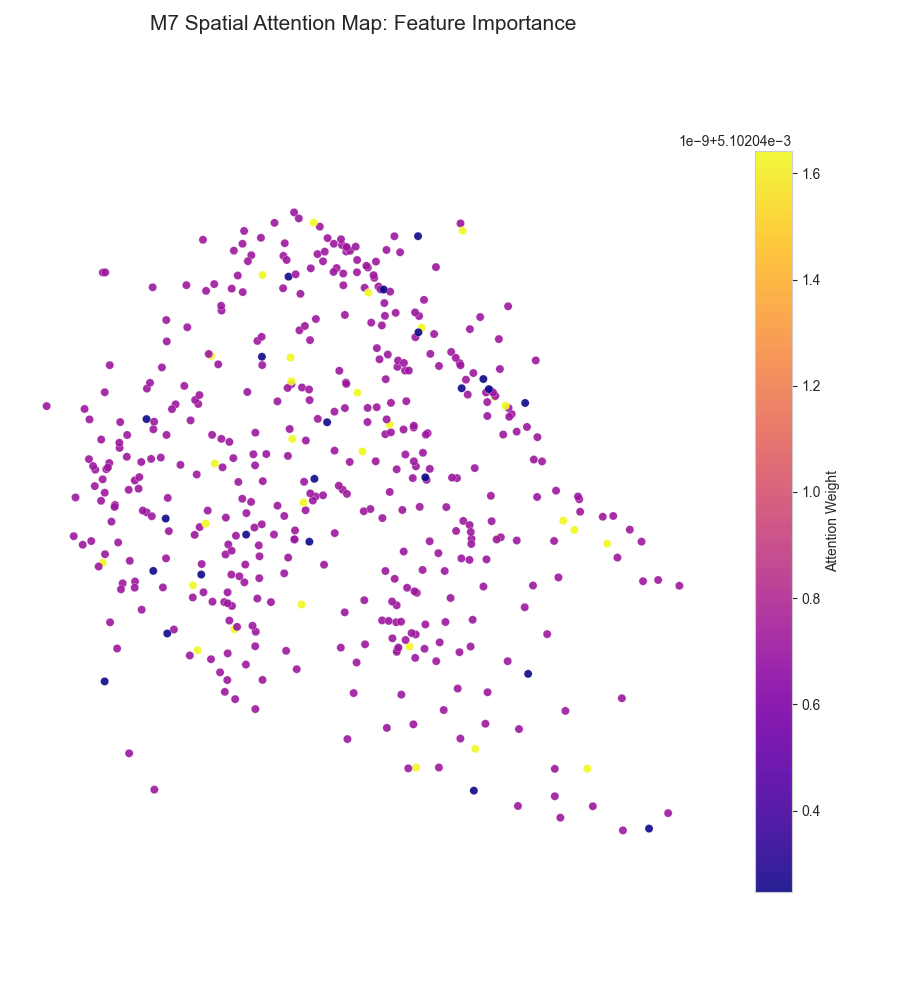
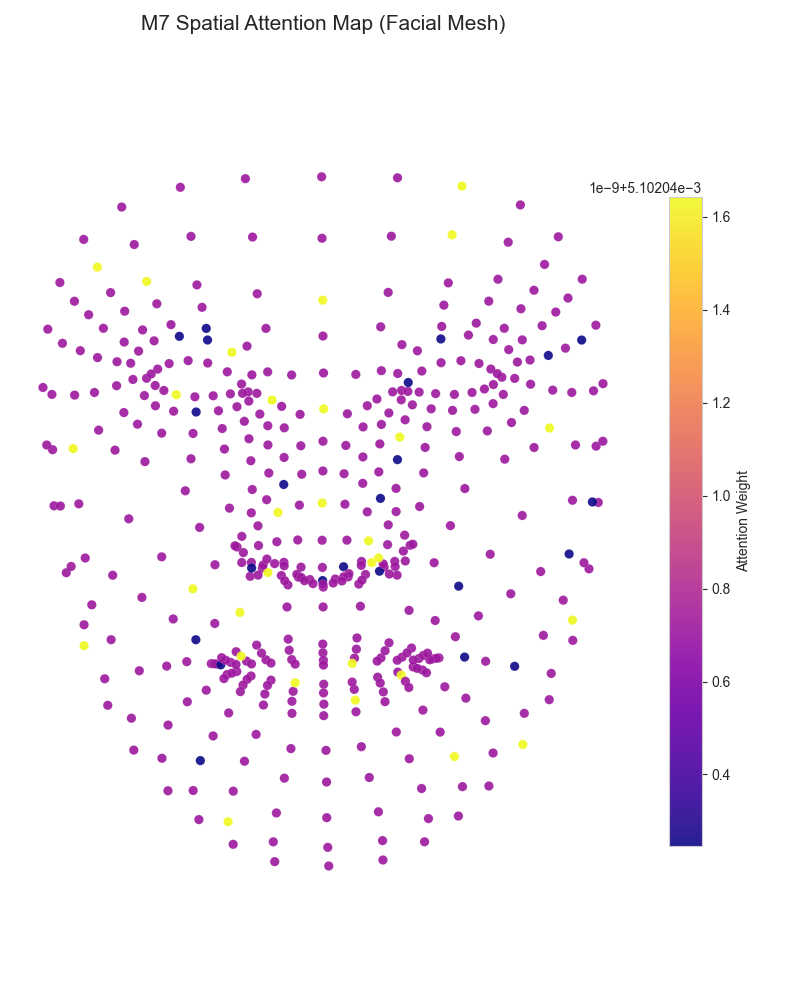
corrected spatial image code

diff --git a/CodeDocs/phase7_generate_plots.py b/CodeDocs/phase7_generate_plots.py
@@ -106,81 +106,61 @@ def plot_attention_distribution():
     out_path = os.path.join(C.RESULTS_DIR, "m7_attention_distribution.png")
     plt.tight_layout()
     plt.savefig(out_path)
-    print(f"Attention distribution plot saved to {out_path}")
+    print(f"Attention distribution saved to {out_path}")
 
 
 def plot_spatial_attention():
     """
-    Map M7 attention weights onto the 2D facial landmarks to create a
-    spatial heatmap of where the model "looks".
+    Map M7 attention weights onto the Procrustes-aligned 3D facial landmarks
+    to create a recognizable spatial map of where the model "looks".
     """
-    # ------------------------------------------------------------------
-    # 1. Load required data
-    # ------------------------------------------------------------------
+    # 1. Load Data
     attn_path = os.path.join(C.CHECKPOINT_DIR, "m7_transformer_heatmaps.npy")
-    land_path = os.path.join(C.CACHE_DIR, "norm_2d.npy")
-
+    # Using aligned_3d because it preserves the actual face structure perfectly
+    land_path = os.path.join(C.CACHE_DIR, "aligned_3d.npy")
+    
     if not os.path.exists(attn_path) or not os.path.exists(land_path):
-        print("Missing data for spatial mapping (attention or landmarks).")
+        print("Missing data for spatial mapping (attention or aligned landmarks).")
         return
 
-    attn_data = np.load(attn_path)                       # shape: (N, 468) or (N, 468, 196)
-    land_raw = np.load(land_path, allow_pickle=True)
+    attn_data = np.load(attn_path)
+    land_dict = np.load(land_path, allow_pickle=True).item()
 
-    # ------------------------------------------------------------------
-    # 2. Extract first sample's landmarks
-    # ------------------------------------------------------------------
-    if isinstance(land_raw.item(), dict):
-        first_key = list(land_raw.item().keys())[0] # Added [0] to get the actual key string
-        sample_land = land_raw.item()[first_key]
-    else:
-        sample_land = land_raw[0]
-    
-    # Reshape landmarks to 2 columns (X, Y). 
-    # If it was 702 elements, it will become (351, 2).
-    sample_land = np.array(sample_land).reshape(-1, 2)
-
-    # ------------------------------------------------------------------
-    # 3. Extract first sample's attention and reduce to per-landmark values
-    # ------------------------------------------------------------------
-    # If attn_data is the whole file, take the first sample [0]
-    sample_attn = attn_data[0] if attn_data.ndim > 1 else attn_data
-
-    # If attention is 2D (landmarks × patches), collapse over patches
+    # 2. Extract first sample
+    # Attention: (N, 468) or (N, 468, patches)
+    sample_attn = attn_data[0]
     if sample_attn.ndim == 2:
-        sample_attn = sample_attn.mean(axis=1)
-        print("Note: Aggregated cross‑attention over patches using mean.")
+        sample_attn = sample_attn.mean(axis=1) # Mean over patches
     
-    sample_attn = sample_attn.flatten()
-
-    # ------------------------------------------------------------------
-    # MATCHING LOGIC: Ensure sample_attn and sample_land have same length
-    # ------------------------------------------------------------------
+    # Landmarks: First available in the dict, reshaped to (468, 3)
+    first_fn = list(land_dict.keys())[0]
+    sample_land = land_dict[first_fn].reshape(-1, 3)
+    
+    # Align lengths
     min_len = min(len(sample_attn), len(sample_land))
     sample_attn = sample_attn[:min_len]
     sample_land = sample_land[:min_len]
-    print(f"Aligning data: using first {min_len} points for plotting.")
 
-    # ------------------------------------------------------------------
-    # 4. Create 2D scatter plot with attention as colour
-    # ------------------------------------------------------------------
-    plt.figure(figsize=(9, 10))
-    plt.gca().set_facecolor('#1c1c1c')
-
+    # 3. Visualization
+    plt.figure(figsize=(8, 10))
+    plt.gca().set_facecolor('#1c1c1c') # Dark theme
+    
+    # Plot spatial map (X, Y)
+    # Note: For procrustes-aligned landmarks, we might not need to flip Y, 
+    # but let's check orientation. Usually (x, -y) is safe for image-originated coords.
     scatter = plt.scatter(sample_land[:, 0], -sample_land[:, 1],
-                          c=sample_attn, cmap='plasma', s=35, alpha=0.9,
-                          edgecolors='white', linewidth=0.2)
-
-    plt.colorbar(scatter, label='Attention Weight', shrink=0.8)
-    plt.title("M7 Spatial Attention Map: Feature Importance", fontsize=15, pad=20)
+                         c=sample_attn, cmap='plasma', s=45, alpha=0.9,
+                         edgecolors='white', linewidth=0.1)
+    
+    plt.colorbar(scatter, label='Attention Weight', shrink=0.7)
+    plt.title("M7 Spatial Attention Map (Facial Mesh)", fontsize=15, pad=20)
     plt.axis('equal')
     plt.axis('off')
-
+    
     out_path = os.path.join(C.RESULTS_DIR, "m7_attention_spatial.png")
     plt.tight_layout()
     plt.savefig(out_path)
-    print(f"Spatial attention map saved to {out_path}")
-
+    print(f"Spatial attention map (Face Mesh) saved to {out_path}")
 
 if __name__ == "__main__":
     generate_report_plots()

diff --git a/README.md b/README.md
@@ -53,10 +53,18 @@ By plotting the distribution of the $\beta$ (Geometry) gate, we observed that:
 ### 5.2 Transformer Attention (Interpretability)
 We extracted cross-attention weights from the best-performing transformer model, **M7 (Cross-Attention Fusion)**. For each test image, the model computes a weight per facial landmark (0–467) indicating how much that landmark contributed to the final beauty score.
 
+To provide a comprehensive view of model interpretability, we visualised both the **intensity distribution** across landmark indices (Figure 3a) and the **spatial mapping** onto the facial structure (Figure 3b).
+
 <p align="center">
-  <img src="results/m7_attention_spatial.png" width="500" alt="Figure 3: M7 Spatial Attention Map">
+  <img src="results/m7_attention_distribution.png" width="800" alt="Figure 3a: Attention Distribution">
   <br>
-  <em>Figure 3: M7 Spatial Attention Map mapping feature importance back onto the face. Brighter points (Plasma scale) indicate higher attention weights.</em>
+  <em>Figure 3a: Cross-attention distribution across 468 landmark indices. Peaks correspond to specific facial landmarks with above-average contribution.</em>
+</p>
+
+<p align="center">
+  <img src="results/m7_attention_spatial.png" width="500" alt="Figure 3b: Spatial Attention Map">
+  <br>
+  <em>Figure 3b: Spatial Attention Map mapping these weights back onto a Procrustes-aligned facial mesh. Brighter points (Plasma scale) indicate higher attention weights.</em>
 </p>
 
 As shown in Figure 3, the attention weights are spatially concentrated on key facial regions:
